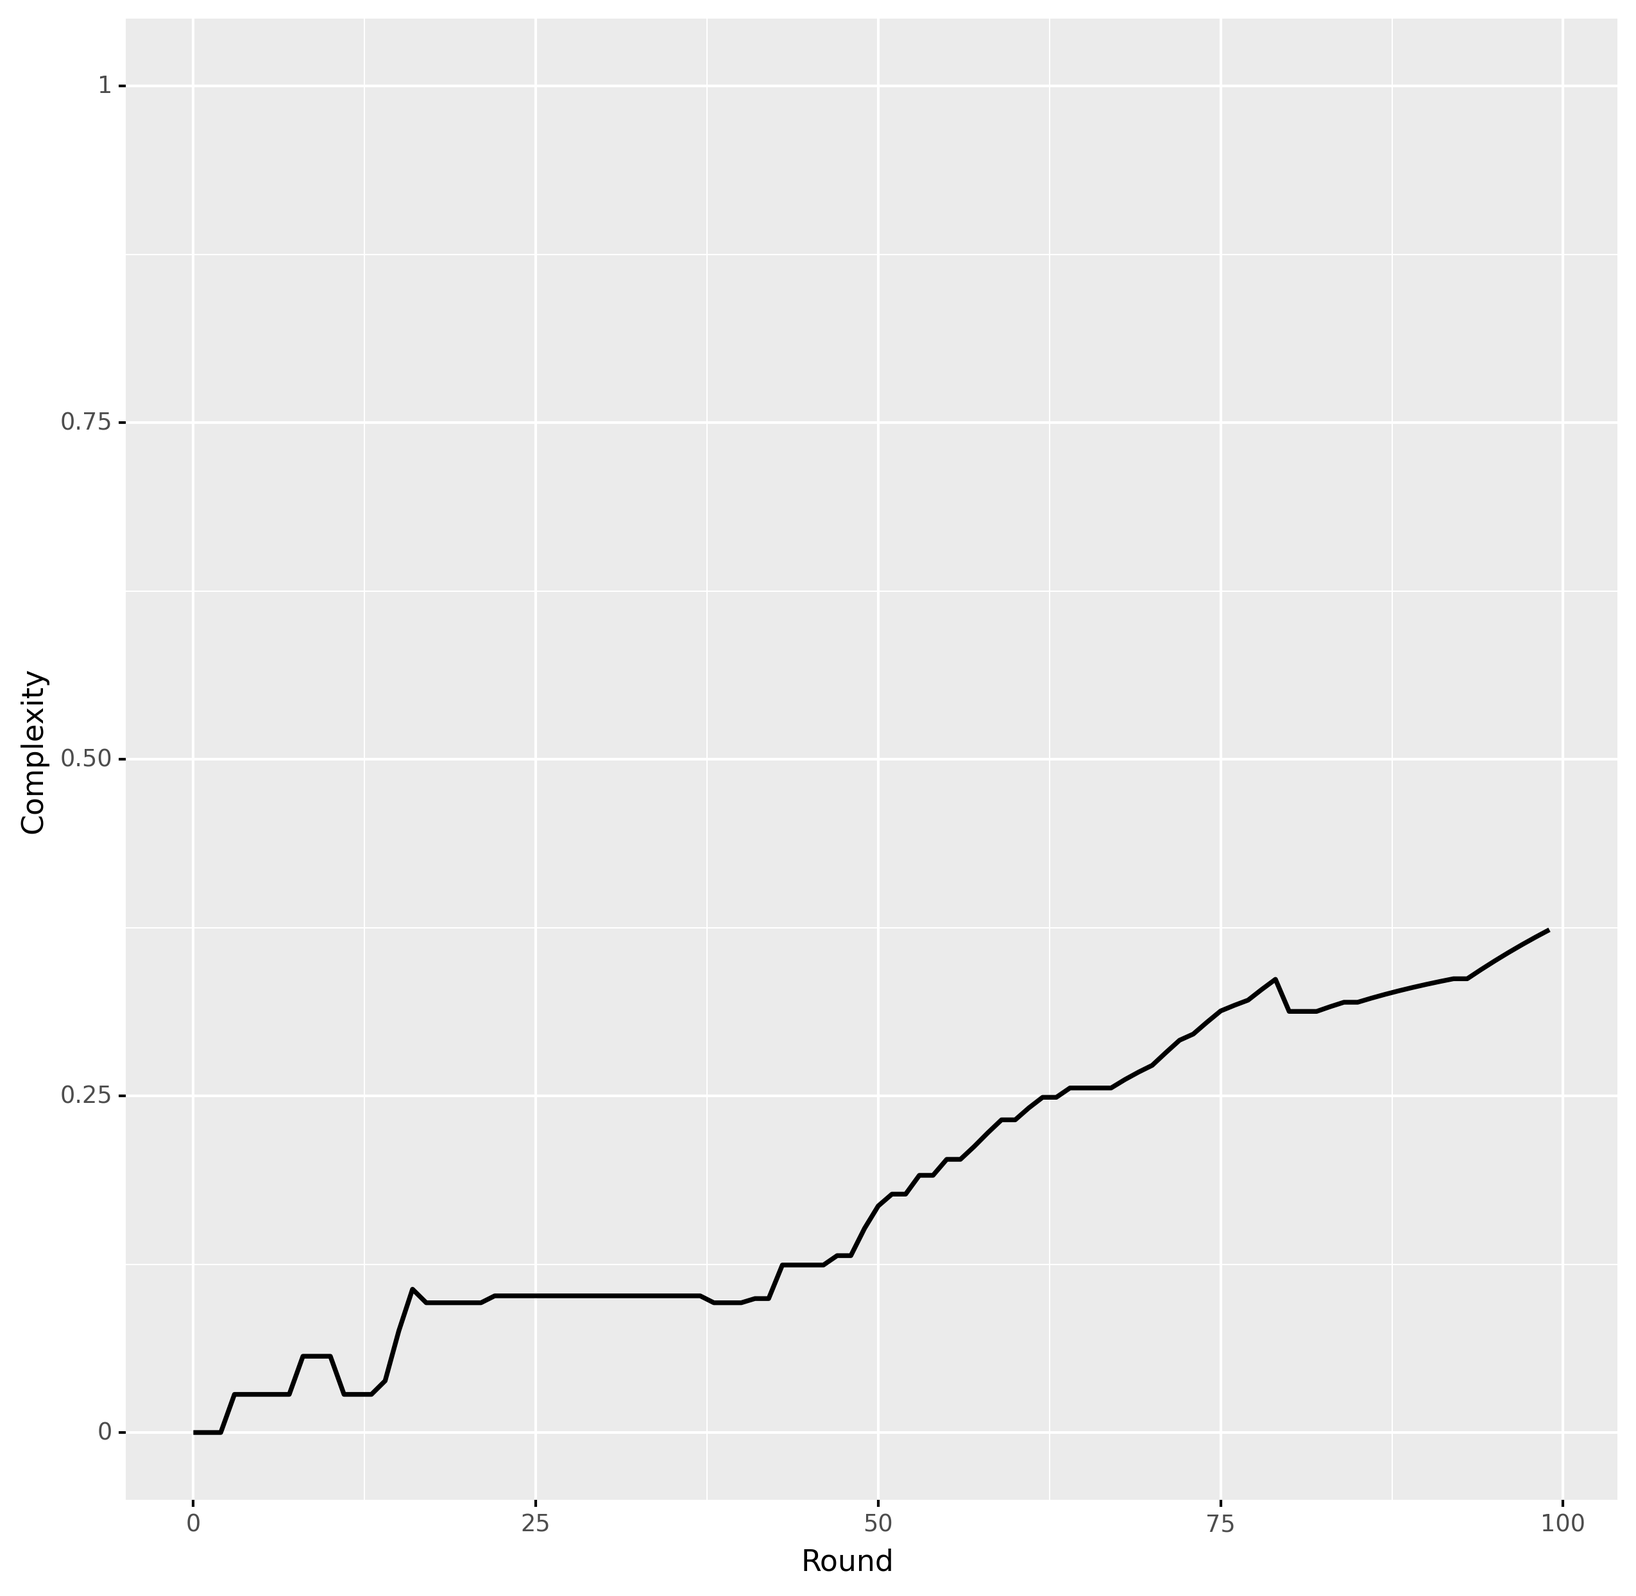
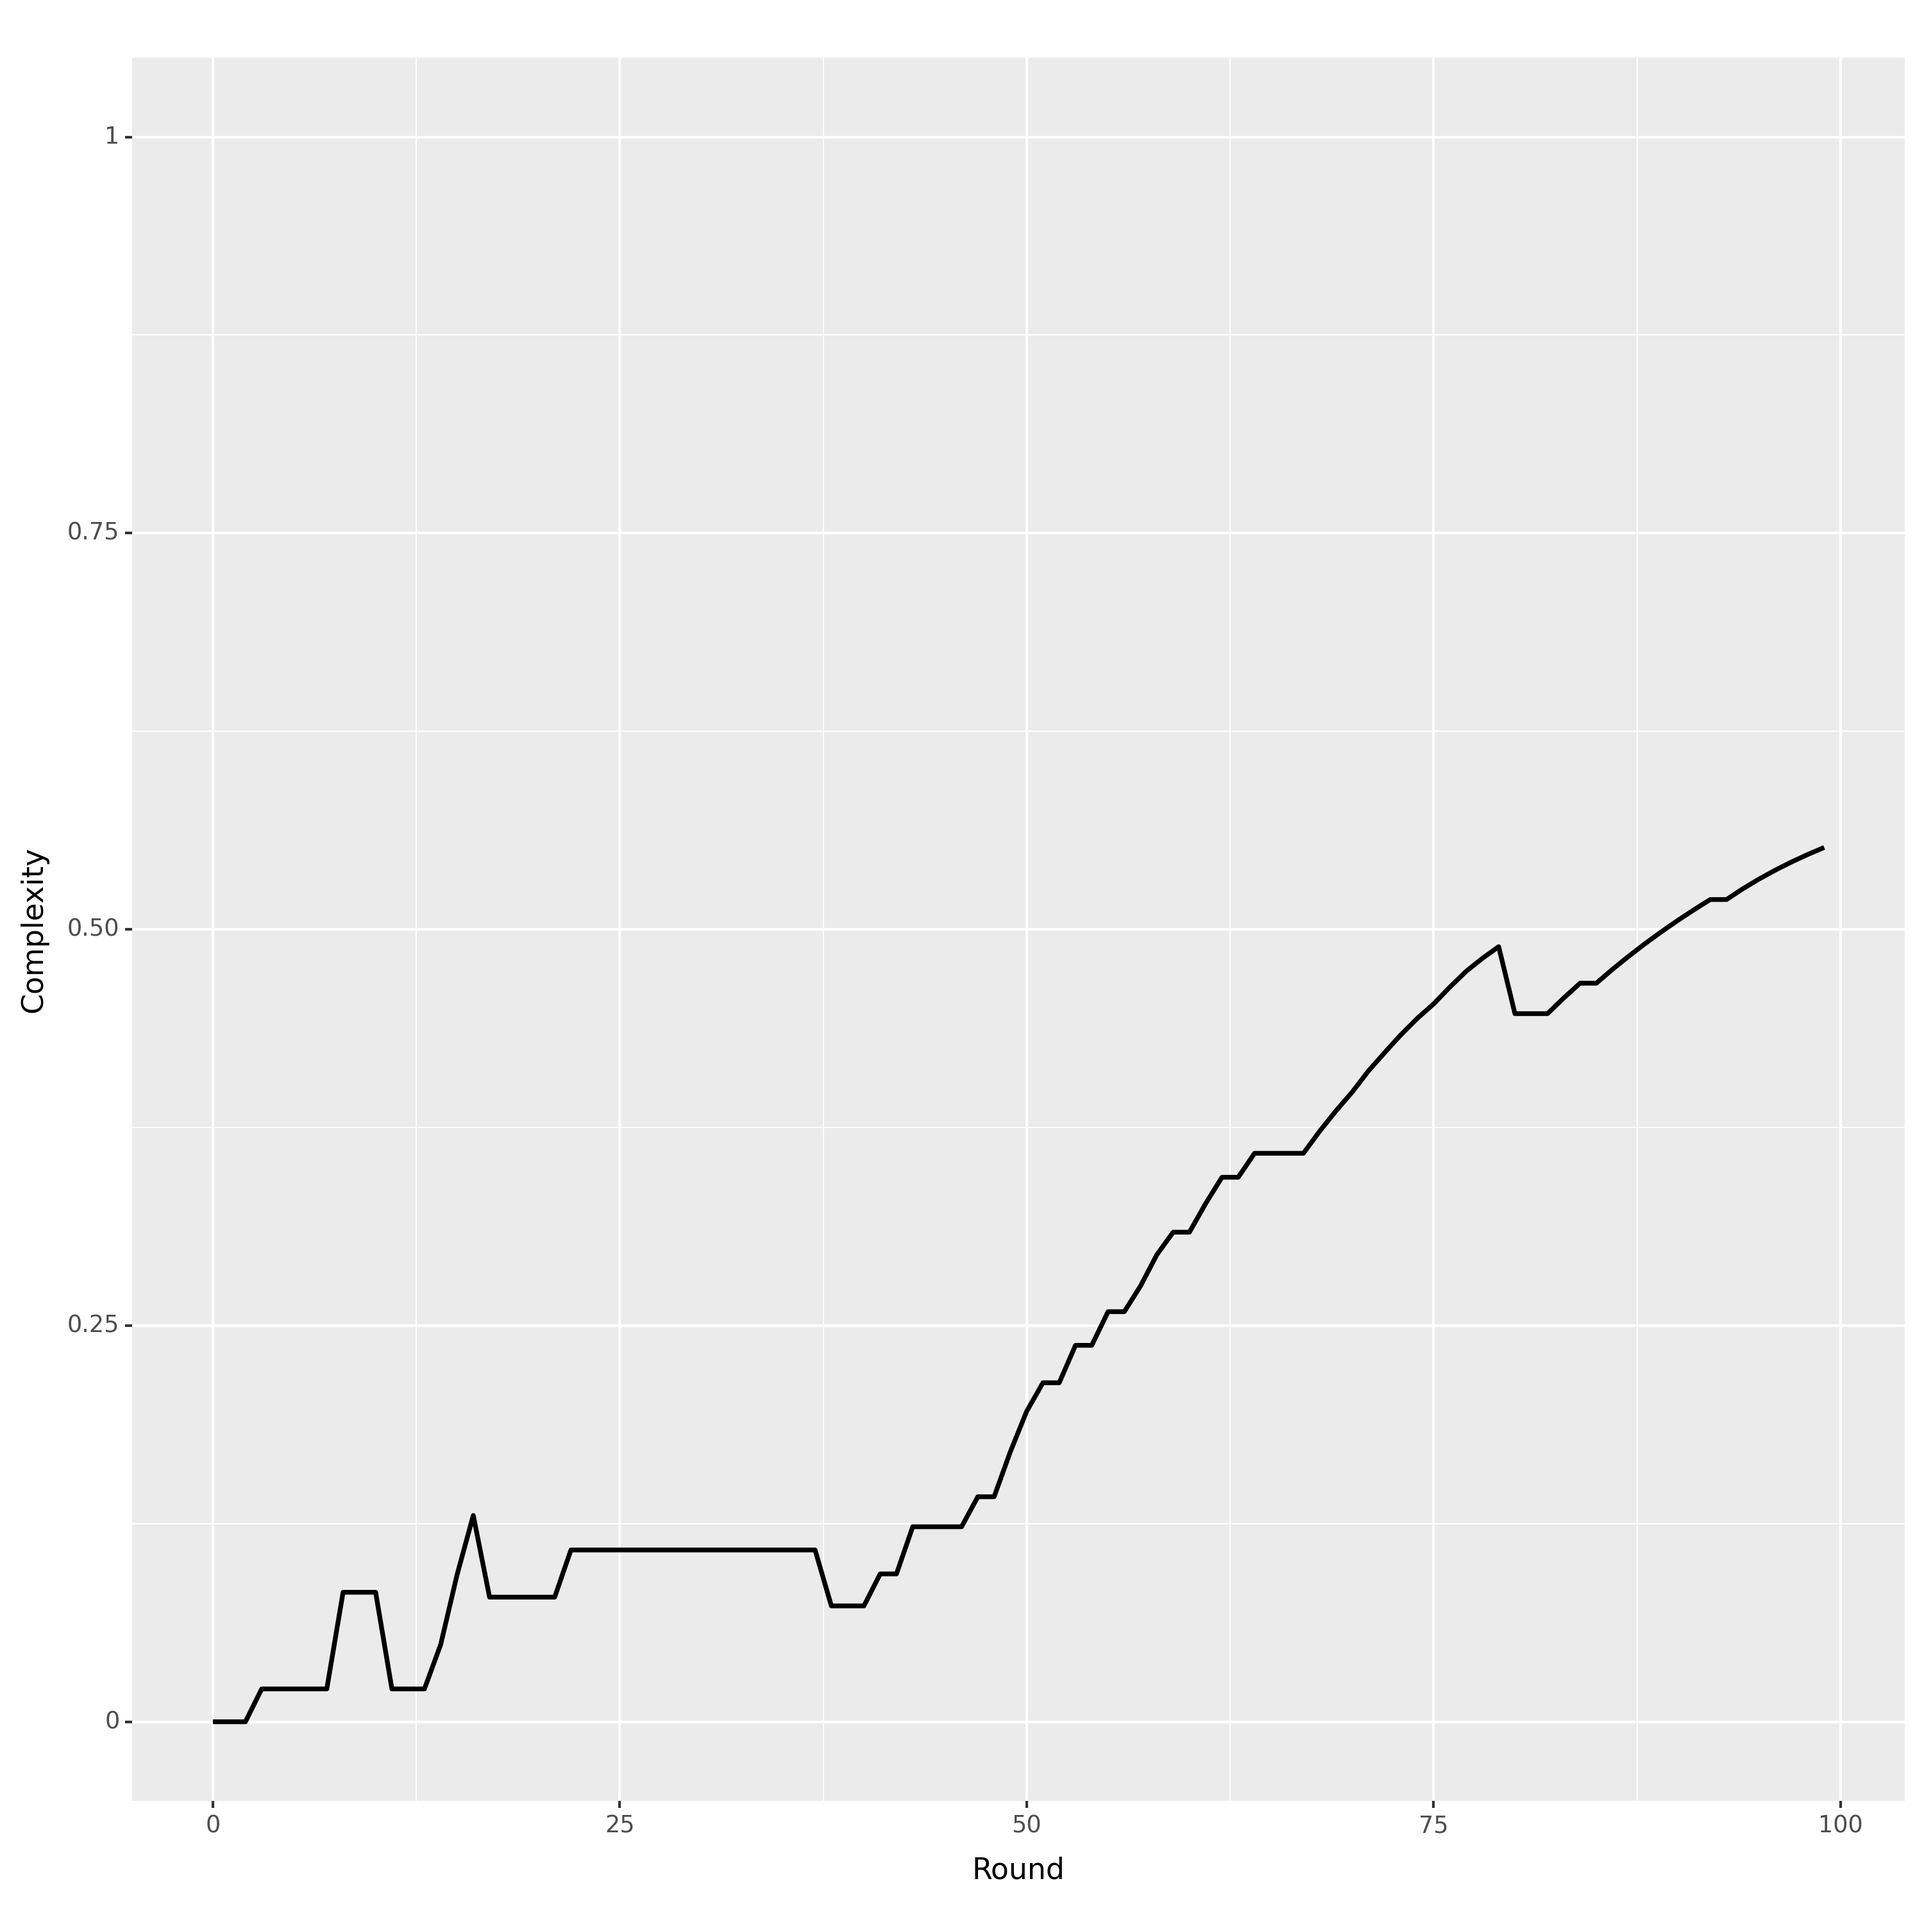
major plumbing issue fixes in rate_distortion

diff --git a/src/examples/colors/meaning.py b/src/examples/colors/meaning.py
@@ -143,9 +143,12 @@ print("Meaning space indices:")
 print(meaning_space_indices)
 
 #result = meaning(munsell_to_cielab[meaning_space_indices[0]], munsell_to_cielab[meaning_space_indices[1]])
-        
-print(rd.language_to_ib_point(language=languages[0], prior=uniform_prior, meaning_dists=meaning_space_indices))
-print(rd.language_to_ib_point(language=languages[100], prior=uniform_prior, meaning_dists=meaning_space_indices))
-print(rd.language_to_ib_point(language=languages[200], prior=uniform_prior, meaning_dists=meaning_space_indices))
+
+# breakpoint()
+meaning_dists = meaning_space_indices / meaning_space_indices.sum(axis=1, keepdims=True)
+
+print(rd.language_to_ib_point(language=languages[0], prior=uniform_prior, meaning_dists=meaning_dists))
+print(rd.language_to_ib_point(language=languages[100], prior=uniform_prior, meaning_dists=meaning_dists))
+print(rd.language_to_ib_point(language=languages[200], prior=uniform_prior, meaning_dists=meaning_dists))
 
 

diff --git a/src/ultk/effcomm/agent.py b/src/ultk/effcomm/agent.py
@@ -147,7 +147,7 @@ class CommunicativeAgent:
         # loop over agent's vocabulary
         for old_expression in self.language.expressions:
             # get all meanings that the expression can communicate
-            referents = [
+            referents = tuple([
                 referent
                 for referent in self.language.universe.referents
                 if policies[
@@ -156,7 +156,7 @@ class CommunicativeAgent:
                     )
                 ]
                 > threshold  # if probability of referent is high enough
-            ]
+            ])
 
             meaning = meaning_type(referents, self.language.universe)
             # construct the updated expression as a new form-meaning mapping

diff --git a/src/examples/signaling_game/learning.py b/src/examples/signaling_game/learning.py
@@ -3,7 +3,7 @@
 import numpy as np
 from ultk.effcomm.agent import CommunicativeAgent
 from ultk.effcomm.informativity import communicative_success
-from ultk.effcomm.information import information_rate
+from ultk.effcomm.rate_distortion import information_cond
 from game import SignalingGame
 from tqdm import tqdm
 from typing import Any
@@ -46,7 +46,7 @@ def simulate_learning(g: SignalingGame, num_rounds: int, learning_rate=1.0) -> N
             )
         )
         g.data["complexity"].append(
-            information_rate(g.prior, g.sender.normalized_weights())
+            information_cond(g.prior, g.sender.normalized_weights())
         )
 
     return g

diff --git a/src/examples/signaling_game/main.py b/src/examples/signaling_game/main.py
@@ -1,4 +1,3 @@
-# from . import util
 import util
 import vis
 from agents import Receiver, Sender
@@ -27,7 +26,7 @@ def main(args):
     signal_names = [f"signal_{i+1}" for i in range(num_signals)]
 
     # Construct the universe of states, and language defined over it
-    universe = StateSpace([State(name=name) for name in state_names])
+    universe = StateSpace(tuple([State(name=name) for name in state_names]))
 
     # All meanings are dummy placeholders at this stage, but they can be substantive once agents are given a weight matrix.
     dummy_meaning = SignalMeaning(states=universe.referents, universe=universe)

diff --git a/src/ultk/language/language.py b/src/ultk/language/language.py
@@ -61,6 +61,7 @@ class Language:
 
         # Check that all expressions have the same universe
         if len(set([e.meaning.universe for e in expressions])) != 1:
+            breakpoint()
             raise ValueError(
                 f"All expressions must have the same meaning universe. Received universes: {[e.meaning.universe for e in expressions]}"
             )

diff --git a/src/ultk/language/semantics.py b/src/ultk/language/semantics.py
@@ -81,7 +81,7 @@ class Universe:
 
     @cached_property
     def _prior(self):
-        return self.prior or tuple([1 / self.size] * self.size)
+        return self.prior if self.prior is not None else tuple([1 / self.size] * self.size)
 
     def prior_numpy(self) -> np.ndarray:
         return np.array(self._prior)
